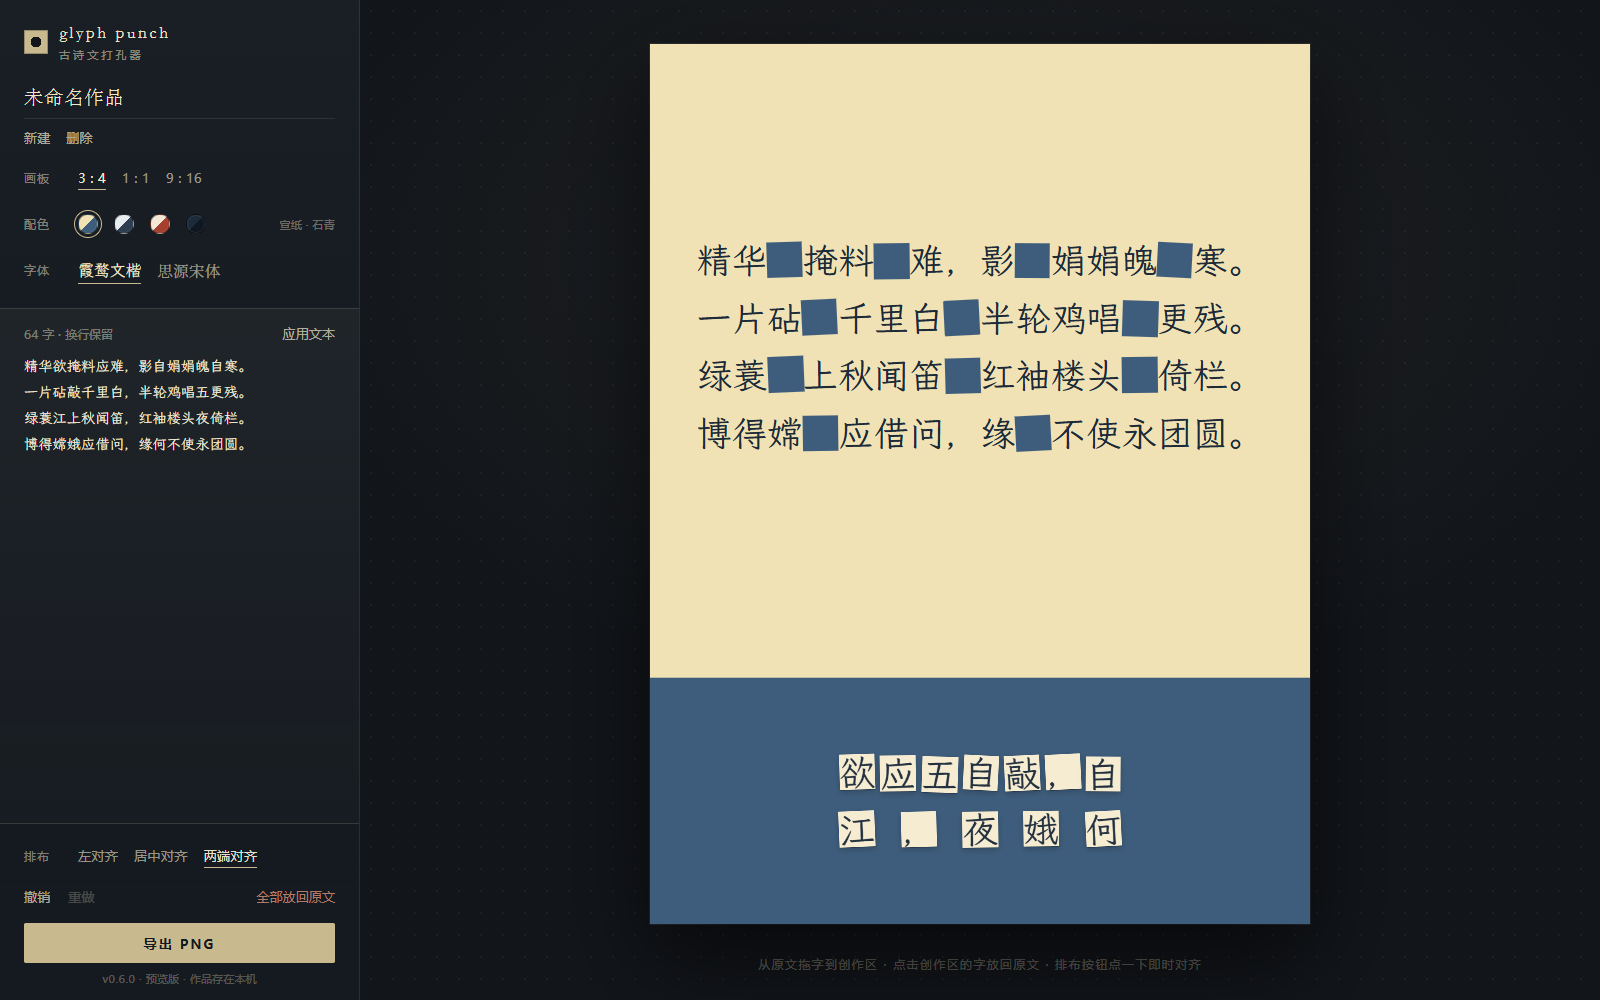
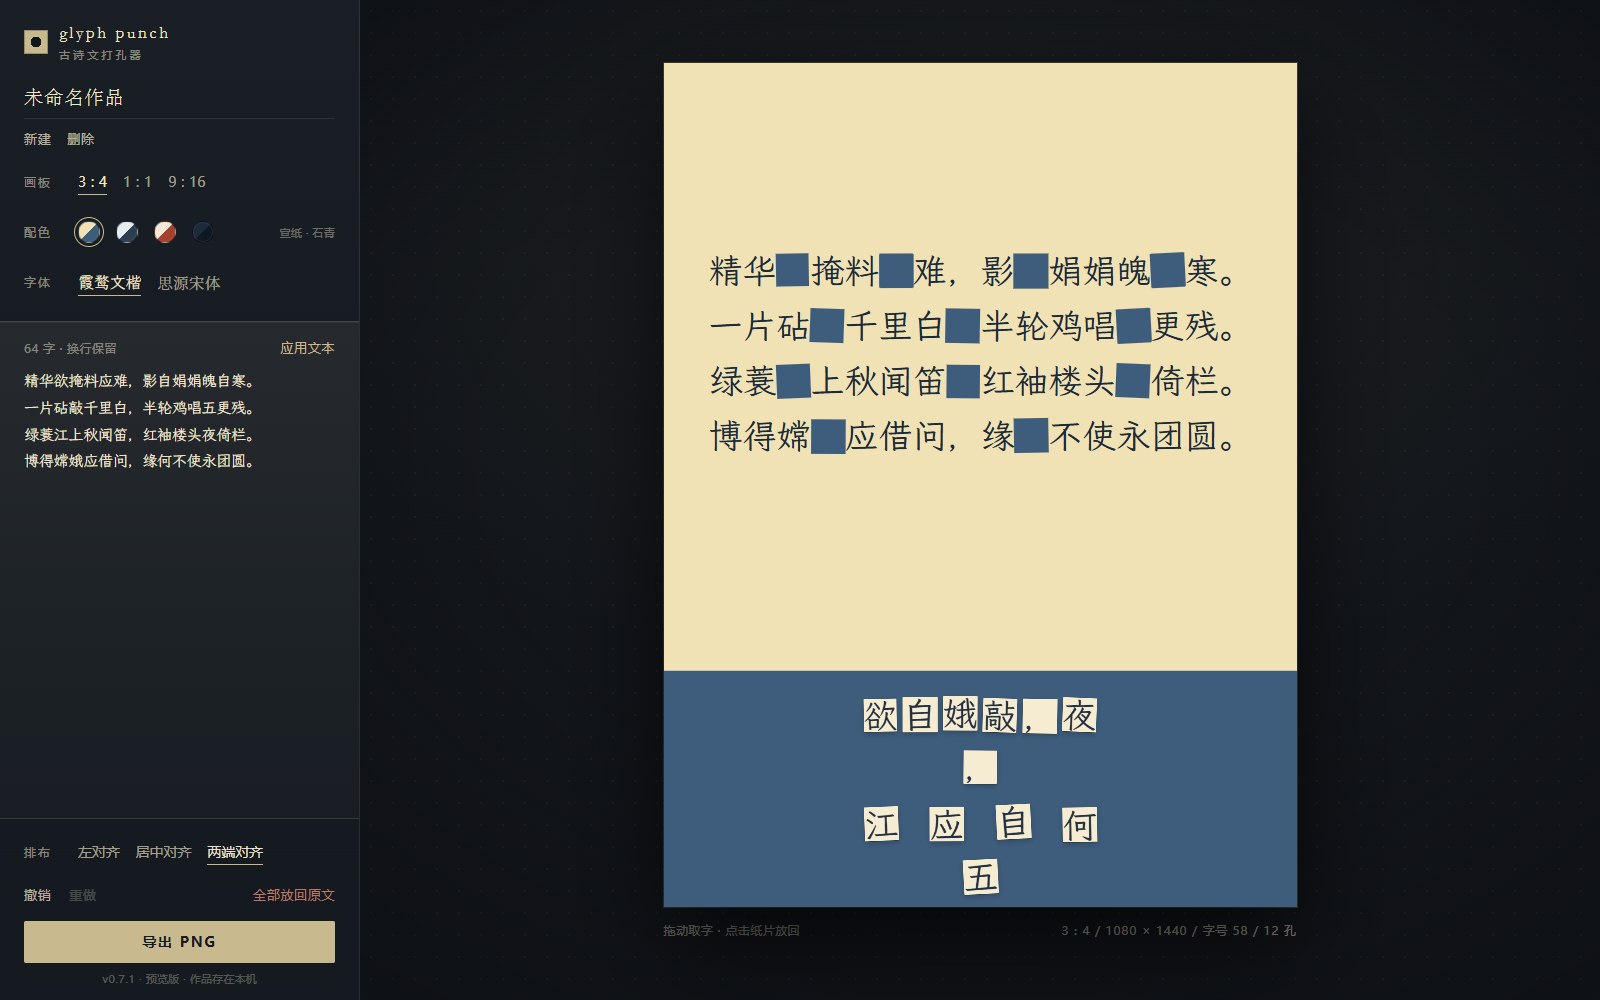
polish: 舞台规格条、暗角与控件细节 (v0.7.1)
- 画板加黄铜细边、加深投影，舞台加暗角聚焦
- 画板下方新增规格条：操作提示 + 画布尺寸/字号/孔数
- 稿纸带底色与分隔线加强，正文 14.5px，标签 12px
- 色票放大到 22px 并补 hover 环，选项 13.5px
- 应用文本改为黄铜色强调，作品标题补 hover 反馈
- 规格条接入实时数据，随比例/字号/打孔变化
- 更新 README、PRD 与预览图

diff --git a/src/styles.css b/src/styles.css
@@ -112,6 +112,11 @@ body {
   font-family: var(--serif);
   font-size: 19px;
   letter-spacing: 0.06em;
+  transition: border-color 0.15s;
+}
+
+.doc-title:hover {
+  border-bottom-color: rgba(232, 224, 200, 0.26);
 }
 
 .doc-title::placeholder {
@@ -134,16 +139,16 @@ body {
   display: flex;
   align-items: center;
   gap: 12px;
-  min-height: 36px;
-  margin-top: 10px;
+  min-height: 38px;
+  margin-top: 12px;
 }
 
 .row-label {
   width: 42px;
   flex: none;
-  font-size: 11.5px;
+  font-size: 12px;
   letter-spacing: 0.14em;
-  color: rgba(232, 224, 200, 0.5);
+  color: rgba(232, 224, 200, 0.54);
 }
 
 .row-body {
@@ -170,9 +175,9 @@ body {
   border: 0;
   border-bottom: 1px solid transparent;
   background: none;
-  color: rgba(232, 224, 200, 0.62);
+  color: rgba(232, 224, 200, 0.66);
   font: inherit;
-  font-size: 13px;
+  font-size: 13.5px;
   letter-spacing: 0.03em;
   cursor: pointer;
   transition: color 0.15s, border-color 0.15s;
@@ -198,13 +203,19 @@ body {
 }
 
 .dot {
-  width: 20px;
-  height: 20px;
+  width: 22px;
+  height: 22px;
   padding: 0;
   border: 1px solid rgba(0, 0, 0, 0.35);
   border-radius: 50%;
   box-shadow: inset 0 0 0 1px rgba(255, 255, 255, 0.08);
   cursor: pointer;
+  transition: outline-color 0.15s;
+}
+
+.dot:hover {
+  outline: 1px solid rgba(201, 185, 143, 0.4);
+  outline-offset: 3px;
 }
 
 .dot.is-active {
@@ -298,8 +309,9 @@ body {
   min-height: 190px;
   margin: 0 -24px;
   padding: 14px 24px 0;
-  border-top: 1px solid rgba(232, 224, 200, 0.16);
-  background: linear-gradient(180deg, rgba(232, 224, 200, 0.045), rgba(232, 224, 200, 0.012));
+  border-top: 1px solid rgba(232, 224, 200, 0.2);
+  background: linear-gradient(180deg, rgba(232, 224, 200, 0.07), rgba(232, 224, 200, 0.02));
+  box-shadow: inset 0 1px 0 rgba(255, 255, 255, 0.03);
 }
 
 .paper-tools {
@@ -308,9 +320,9 @@ body {
   justify-content: space-between;
   gap: 12px;
   margin-bottom: 4px;
-  font-size: 11.5px;
+  font-size: 12px;
   letter-spacing: 0.04em;
-  color: rgba(232, 224, 200, 0.46);
+  color: rgba(232, 224, 200, 0.5);
 }
 
 .manuscript {
@@ -321,7 +333,7 @@ body {
   border: 0;
   background: transparent;
   color: #f0e8d4;
-  font-size: 14px;
+  font-size: 14.5px;
   line-height: 1.85;
   letter-spacing: 0.02em;
   resize: none;
@@ -340,9 +352,9 @@ body {
   border: 0;
   border-bottom: 1px solid transparent;
   background: none;
-  color: rgba(232, 224, 200, 0.72);
+  color: rgba(232, 224, 200, 0.74);
   font: inherit;
-  font-size: 12.5px;
+  font-size: 13px;
   letter-spacing: 0.05em;
   cursor: pointer;
   transition: color 0.15s, border-color 0.15s;
@@ -361,6 +373,15 @@ body {
 .text-danger {
   margin-left: auto;
   color: rgba(206, 140, 116, 0.85);
+}
+
+.text-accent {
+  color: var(--brass);
+}
+
+.text-accent:hover:not(:disabled) {
+  color: #e0cfa6;
+  border-bottom-color: rgba(201, 185, 143, 0.55);
 }
 
 .text-danger:hover:not(:disabled) {
@@ -398,13 +419,13 @@ body {
 
 .export {
   width: 100%;
-  height: 40px;
+  height: 42px;
   border: 1px solid var(--brass);
   border-radius: 2px;
   background: var(--brass);
   color: #151a20;
   font: inherit;
-  font-size: 13px;
+  font-size: 13.5px;
   font-weight: 600;
   letter-spacing: 0.16em;
   cursor: pointer;
@@ -433,26 +454,42 @@ body {
 .stage {
   position: relative;
   display: grid;
-  grid-template-rows: 1fr auto;
   place-items: center;
-  gap: 18px;
-  padding: 28px;
+  padding: 26px;
   background:
+    radial-gradient(1200px 820px at 50% 46%, transparent 40%, rgba(9, 11, 14, 0.55) 100%),
     radial-gradient(1000px 620px at 50% 26%, rgba(201, 185, 143, 0.07), transparent 72%),
     radial-gradient(rgba(232, 224, 200, 0.055) 1px, transparent 1px) 0 0 / 22px 22px,
     #12151a;
 }
 
-.stage-hint {
-  margin: 0;
+.stage-stack {
+  display: flex;
+  flex-direction: column;
+  align-items: center;
+  gap: 16px;
+  max-width: 100%;
+}
+
+.stage-caption {
+  display: flex;
+  align-items: baseline;
+  justify-content: space-between;
+  gap: 24px;
+  flex-wrap: wrap;
   font-size: 11.5px;
-  letter-spacing: 0.16em;
-  color: rgba(232, 224, 200, 0.34);
+  letter-spacing: 0.08em;
+  color: rgba(232, 224, 200, 0.42);
+}
+
+.stage-caption-meta {
+  color: rgba(232, 224, 200, 0.52);
+  letter-spacing: 0.1em;
 }
 
 .frame {
   position: relative;
-  box-shadow: 0 36px 90px rgba(0, 0, 0, 0.62), 0 0 0 1px rgba(232, 224, 200, 0.1);
+  box-shadow: 0 40px 100px rgba(0, 0, 0, 0.66), 0 0 0 1px rgba(201, 185, 143, 0.22);
 }
 
 .board-scaler {

diff --git a/src/App.tsx b/src/App.tsx
@@ -80,7 +80,7 @@ export default function App() {
     if (!element) return
     const observer = new ResizeObserver(() => {
       const rect = element.getBoundingClientRect()
-      const next = Math.min((rect.width - 96) / board.artW, (rect.height - 120) / board.artH, 1)
+      const next = Math.min((rect.width - 96) / board.artW, (rect.height - 156) / board.artH, 1)
       setScale(Math.max(0.18, next))
     })
     observer.observe(element)
@@ -457,7 +457,7 @@ export default function App() {
           <section className="paper">
             <div className="paper-tools">
               <span>{board.layout.cells.length} 字 · 换行保留</span>
-              <button className="text-btn" type="button" onClick={applyText}>
+              <button className="text-btn text-accent" type="button" onClick={applyText}>
                 应用文本
               </button>
             </div>
@@ -528,32 +528,38 @@ export default function App() {
       </aside>
 
       <main className="stage" ref={stageRef}>
-        <div className="frame" style={{ width: board.artW * scale, height: board.artH * scale }}>
-          <div
-            className="board-scaler"
-            style={{
-              width: board.artW,
-              height: board.artH,
-              transform: `scale(${scale})`,
-            }}
-          >
-            <Artboard
-              work={current}
-              board={board}
-              palette={palette}
-              fontStack={fontPack.stack}
-              incoming={incoming}
-              resetting={resetting}
-              onPunch={punch}
-              onPunchAt={punchAt}
-              onMoveTile={moveTile}
-              onReturnTile={returnTile}
-            />
+        <div className="stage-stack">
+          <div className="frame" style={{ width: board.artW * scale, height: board.artH * scale }}>
+            <div
+              className="board-scaler"
+              style={{
+                width: board.artW,
+                height: board.artH,
+                transform: `scale(${scale})`,
+              }}
+            >
+              <Artboard
+                work={current}
+                board={board}
+                palette={palette}
+                fontStack={fontPack.stack}
+                incoming={incoming}
+                resetting={resetting}
+                onPunch={punch}
+                onPunchAt={punchAt}
+                onMoveTile={moveTile}
+                onReturnTile={returnTile}
+              />
+            </div>
+          </div>
+          <div className="stage-caption" style={{ width: board.artW * scale }}>
+            <span>拖动取字 · 点击纸片放回</span>
+            <span className="stage-caption-meta">
+              {RATIOS[current.ratio].label} / {board.artW} × {board.artH} / 字号{' '}
+              {board.layout.size} / {current.punched.length} 孔
+            </span>
           </div>
         </div>
-        <p className="stage-hint">
-          从原文拖字到创作区 · 点击创作区的字放回原文 · 排布按钮点一下即时对齐
-        </p>
       </main>
     </div>
   )

diff --git a/docs/PRD.md b/docs/PRD.md
@@ -125,6 +125,7 @@ interface Tile {
 
 - 基调：暗色工作台中央一张被灯照亮的纸。
 - 左侧控制面板不依赖分区标题：上方为作品与画板/配色/字体设置，中部为通栏的稿纸输入带，底部固定排布/历史/导出；选项使用文字与下划线而非卡片，作品切换使用自定义下拉。
+- 画板下方附一条规格说明：左侧为操作提示，右侧为画布尺寸、字号与孔数；画板带黄铜色细边与深阴影，置于暗色工作台的暗角之中。
 - 双色：纸色 + 撞色；原文区纸底墨字、洞为撞色；创作区撞色底、纸片为纸色。
 - 字体：霞鹜文楷为默认（手写楷，起笔带锋），思源宋体为备选；两套均为自托管 woff2 子集，切换即时生效。
 - 唯一致敬点：打孔瞬间纸片掉落。其余动效克制。

diff --git a/README.md b/README.md
@@ -27,6 +27,7 @@
 - 四套双色主题；原文自动排布，不提供对齐选项
 - 两套字体包：霞鹜文楷（默认）/ 思源宋体，可随时切换
 - 左侧面板不靠标题分区：上方作品与材质设置，中间通栏稿纸输入带，底部固定排布/历史/导出；选项用文字下划线、圆形色票，无卡片
+- 画板下方有实时规格条：画布尺寸、字号、已打孔数量，随编辑即时更新
 - 多作品、自动保存到 localStorage、撤销/重做
 - 1x PNG 导出，Canvas 独立渲染，所见即所得
 
